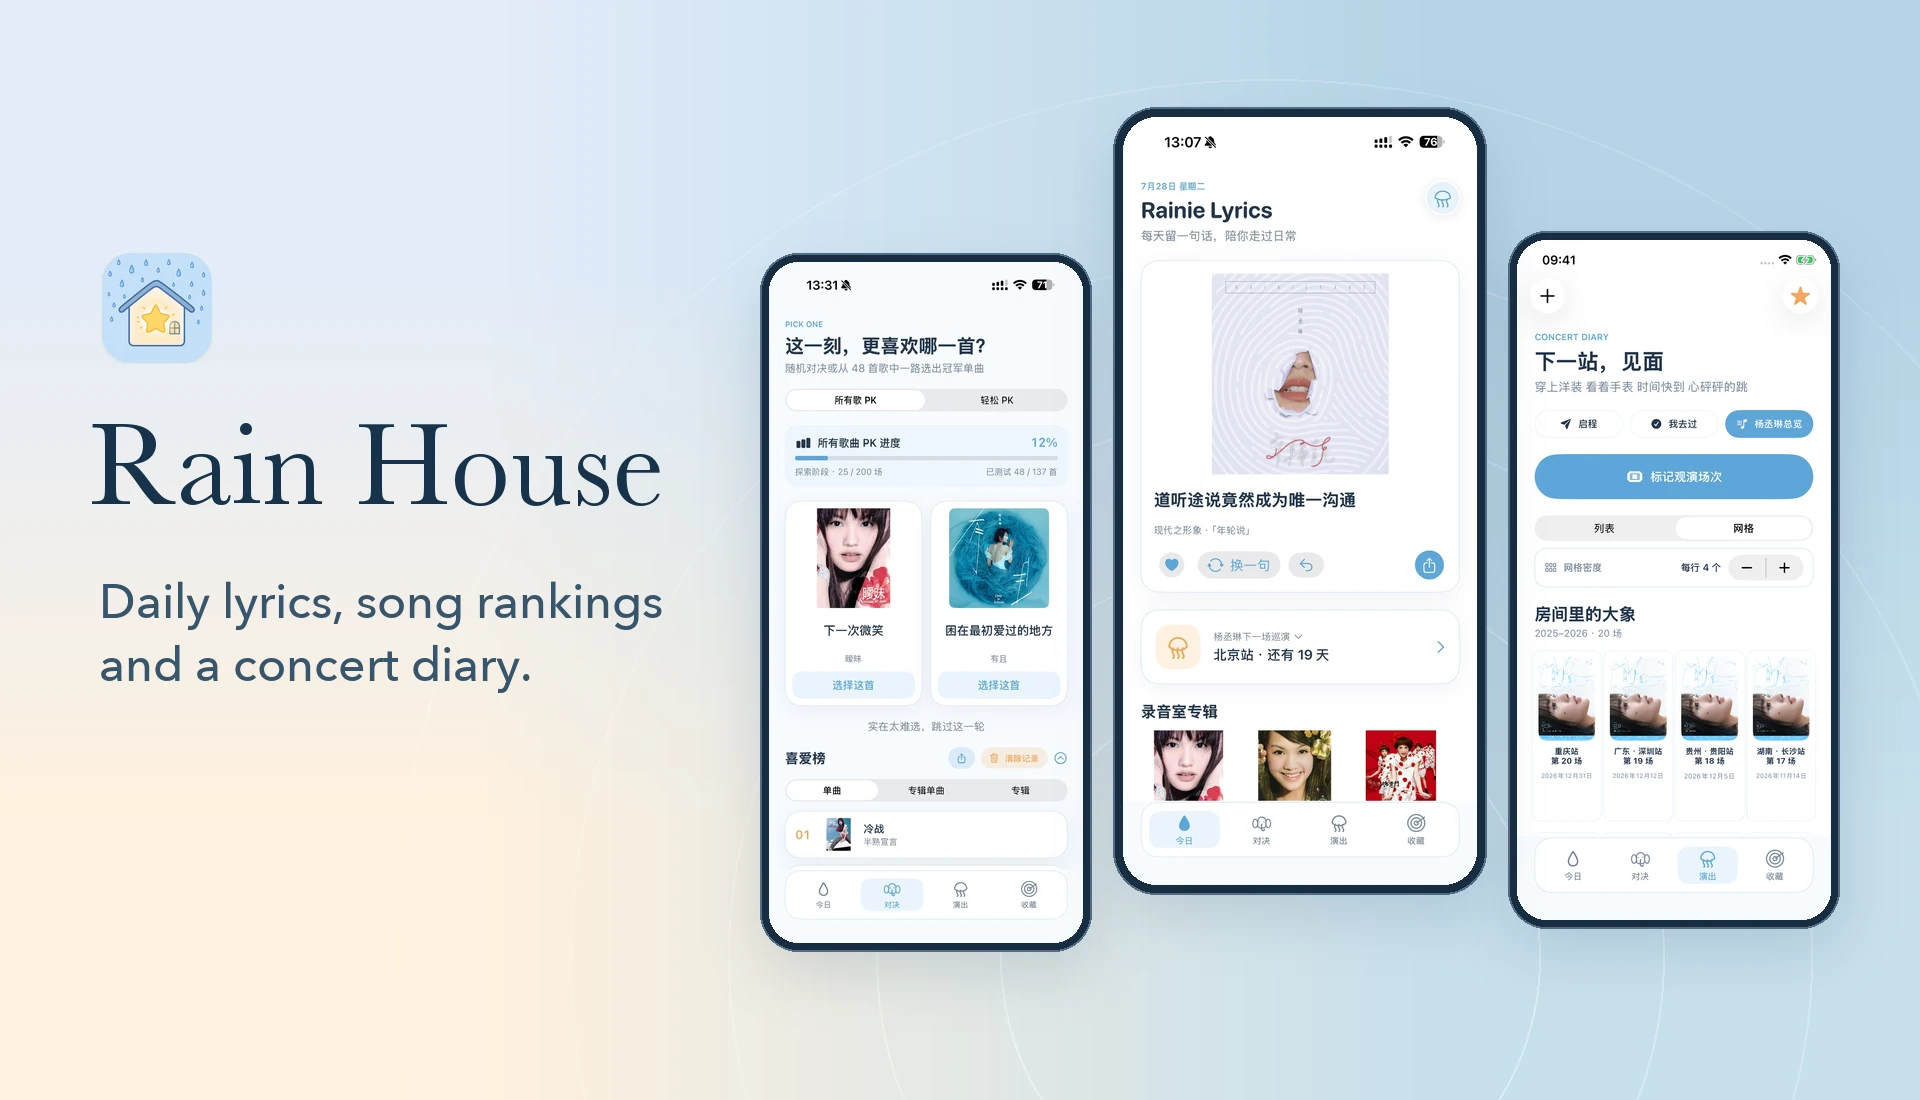
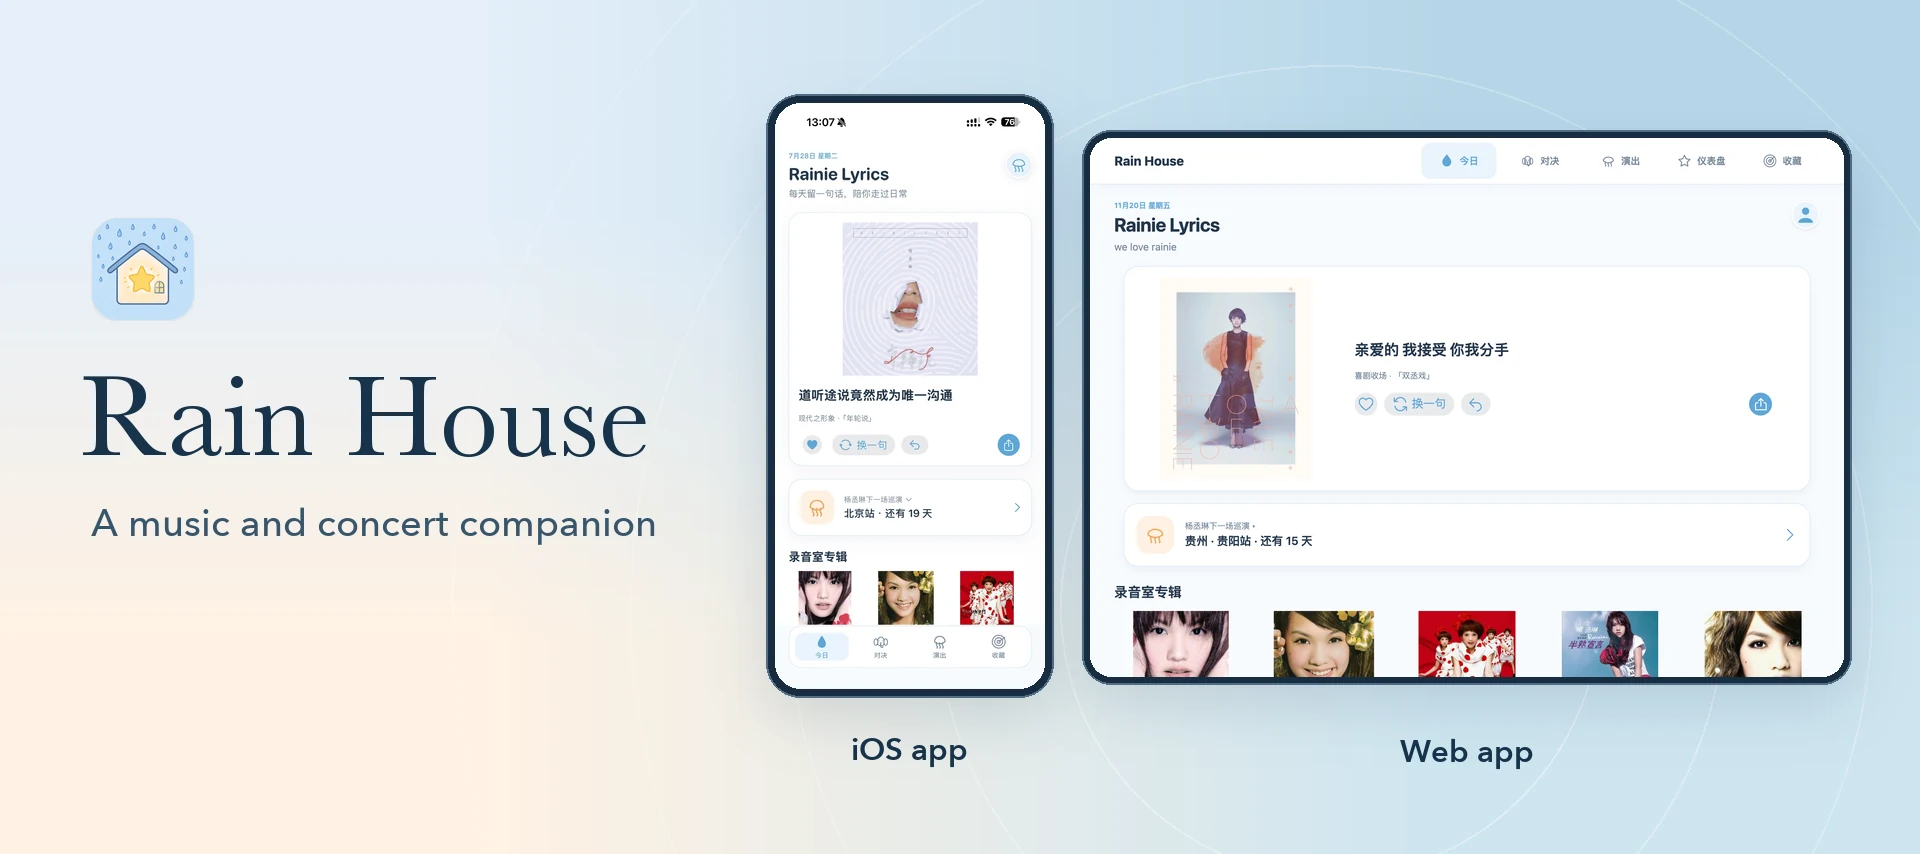
Show the iOS and Web homepages on the cover

Changed region(s): [[0.375, 0.0913, 0.9688, 0.9133], [0.0312, 0.2131, 0.3438, 0.6393], [0.7188, 0.8525, 0.8125, 0.9133]]

diff --git a/README.md b/README.md
@@ -1,6 +1,6 @@
 # Rain House
 
-[![Rain House on iPhone with Daily Lyrics, a head-to-head song matchup, and the concert archive](assets/product/rain-house.webp)](assets/product/rain-house.webp)
+[![Rain House Today home screens in the native iOS app and the desktop Web app](assets/product/rain-house.webp)](assets/product/rain-house.webp?raw=1)
 
 I designed and built Rain House for iOS and the Web. [Open Rain House on the Web](https://rainhouse.top)
 
